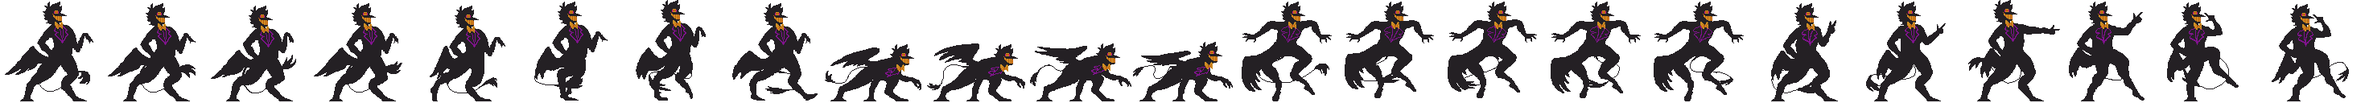
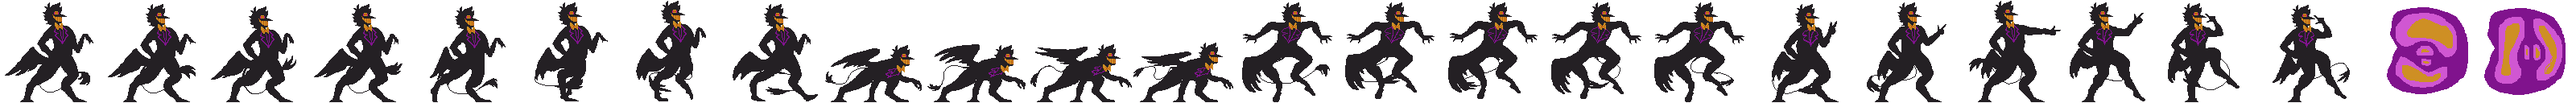
bullets FLY!!

diff --git a/js/GameStates/level1.js b/js/GameStates/level1.js
@@ -81,16 +81,16 @@ bg.img.src=`images/backfull.png`
 var bullets=[]
 var canShoot=true;
 var shotTimer = 0;
-var shotDelay = 21;
+var shotDelay = 3000;
 var currentBullet = 0;
 
 for(let i=0; i<100; i++)
 {
-	bullets[i] = new GameObject({width:64, height:64})
+	bullets[i] = new GameObject({width:32, height:32})
 	//bullets[i].img.src="images/mrt.jpg"
 	bullets[i].makeSprite(playerData)
 	bullets[i].y=-10000
-	bullets[i].changeState(`walk`)
+	bullets[i].changeState(`fireball`)
 }
 
 //console.log(bullets)
@@ -161,13 +161,13 @@ gameStates[`level1`] = function()
 			shotTimer = shotDelay
 			//console.log(`Boom`)
 
-			bullets[currentBullet].vx = 5*wiz.dir;
+			bullets[currentBullet].vx = 20*wiz.dir;
 			bullets[currentBullet].world = level;
-			bullets[currentBullet].x = wiz.x-level.x + (wiz.dir * 96) ;
-			bullets[currentBullet].y = wiz.y + 20;
+			bullets[currentBullet].x = wiz.x-level.x + (wiz.dir * 90) ;
+			bullets[currentBullet].y = wiz.y + -20;
 			bullets[currentBullet].dir = wiz.dir;
 			
-			sounds.play(`shoot`,0)
+			sounds.play(`shoot`,0);
 
 			currentBullet++;
 			if(currentBullet>=bullets.length)
@@ -299,7 +299,7 @@ gameStates[`level1`] = function()
 	//Moves, checks collision and renders projectiles.
 	for(let i=0; i<bullets.length; i++)
 	{
-		if(bullets[i].overlap(stage)) bullets[i].vy+=1;
+		if(bullets[i].overlap(stage)); //bullets[i].vy+=1;
 		bullets[i].move()
 		bullets[i].play(function(){return}).drawSprite()
 		//bullets[i].angle+=10

diff --git a/js/Data/player.js b/js/Data/player.js
@@ -93,6 +93,16 @@ var playerData ={
 				{width:128, height:128, startX:2816, startY:-3}
 				
 			]
+		},
+		fireball:
+		{
+			fps:8,
+			cycle:true,
+			frames:
+			[
+				{width:128, height:128, startX:2944, startY:0},
+				{width:128, height:128, startX:3072, startY:-3}
+			]
 		}
 	}
 		

diff --git a/js/GameStates/menu.js b/js/GameStates/menu.js
@@ -10,7 +10,7 @@ console.log(startButton.collisionPoints.right)
 
 
 var menuBackground = new GameObject();
-menuBackground.img.src = "images/mrt.jpg"
+menuBackground.img.src = "images/background.png"
 menuBackground.width=canvas.width
 menuBackground.height=canvas.height
 
